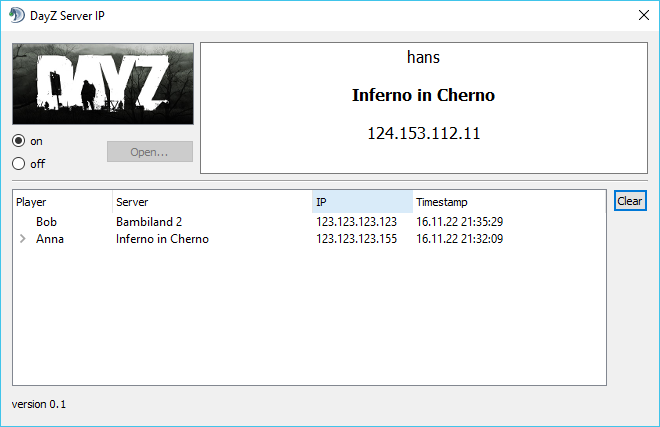
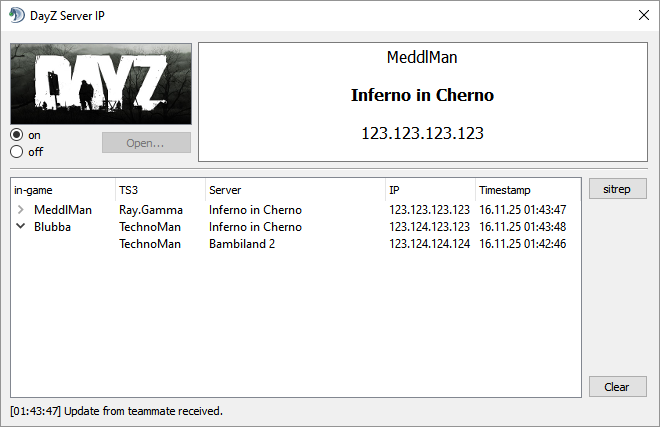
Update to reflect 0.2 release

diff --git a/doc/MANUAL.md b/doc/MANUAL.md
@@ -1,4 +1,4 @@
-# Using DayZ Server IP
+# DayZ Server IP - user guide
 Follow these few steps and you'll be up and running in a few minutes!
 
 Just to make sure there's no misunderstanding: you and all your friends need to install and use this plugin, it doesn't work own its own!
@@ -30,11 +30,12 @@ Now you're half way there. This is what it looks like on its first start.
 ![alt-text](/doc/png/main_window_init.png)
 
 ### Description
-Most of the upper half of the window is the "local info" section __(1)__. This is where your own ingame name, server name and IP are shown. The lower half is the "remote info" section __(2)__. It shows everybody else's ingame name, server name and server IP along with a timestamp to indicate when the last update was received. You can clear this view by clicking the `Clear` button.
+Most of the upper half of the window is the "local info" section __(1)__. This is where your own ingame name, server name and IP are shown. The lower half is the "remote info" section __(2)__. It shows everybody else's ingame name, server name and server IP along with a timestamp to indicate when the last update was received. If this view gets to cluttered, you can clear it by clicking the `Clear` button __(6)__. (Right now this is only temporary and the complete history will reapper when the plugin is restarted.)
 
-You have to click the `Open...` button __(3)__ to select your `.DayZProfile` file that will be used to gather your data. Once you've selected a valid profile, the radiobuttons on the left side __(4)__ become active (well, the `on` button does). If you select `on` the plugin will start to send your data via text messages to the TeamSpeak channel.
+### Usage
+You have to click the `Open...` button __(3)__ to select your `.DayZProfile` file that will be used to gather your data. Once you've selected a valid profile, the radiobuttons on the left side __(4)__ become active (well, the `on` button does). If you select `on` the plugin will start to send your data via text messages to the TeamSpeak channel. But since only updates are sent, you can manually request an update by clicking the `sitrep` button __(5)__. (This will probably be automated in the future.)
 
-![alt-text](/doc/png/main_window_init_annotated.png)
+![alt-text](/doc/png/main_window_annotated.png)
 
 ## Now what?
 - Click on `Open...` and select your `.DayZProfile` file. The dialog should have already placed you inside of your `Documents/DayZ` folder to ease up the task.
